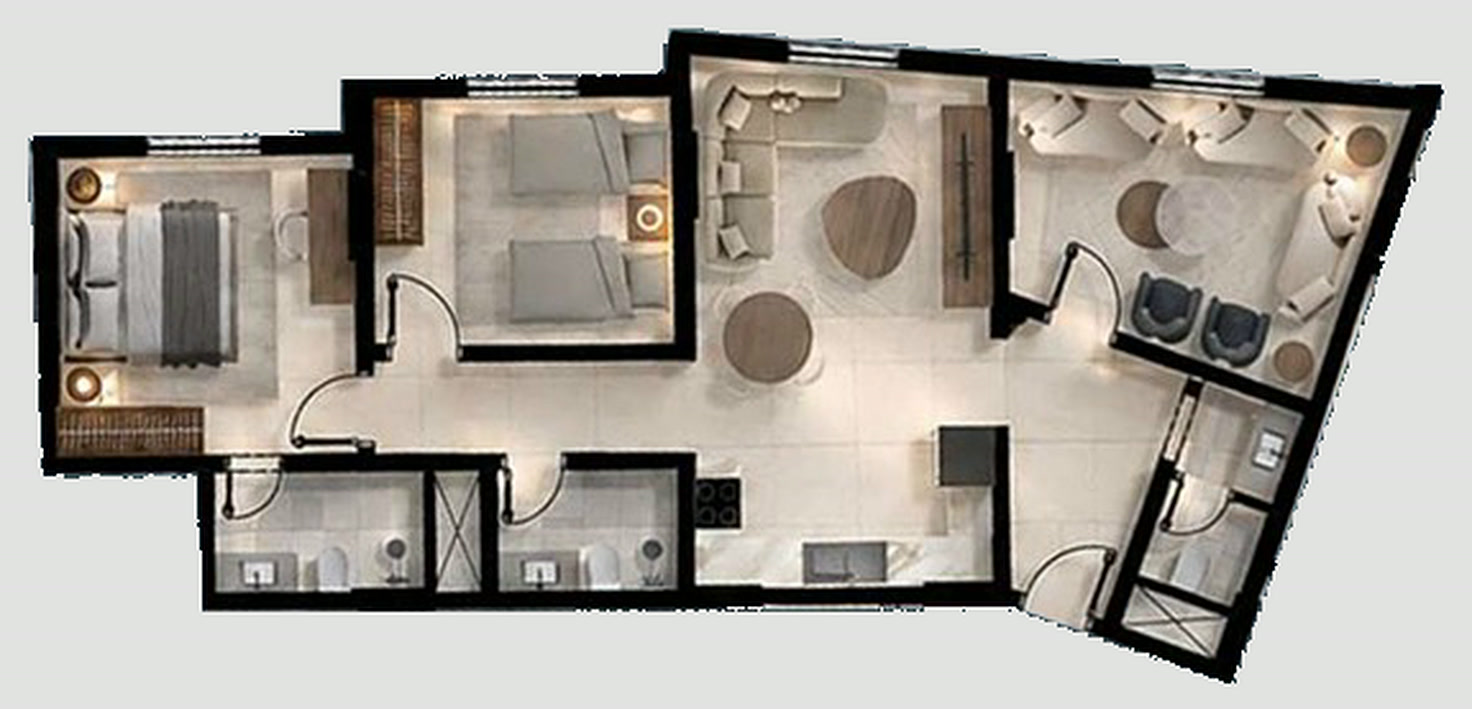
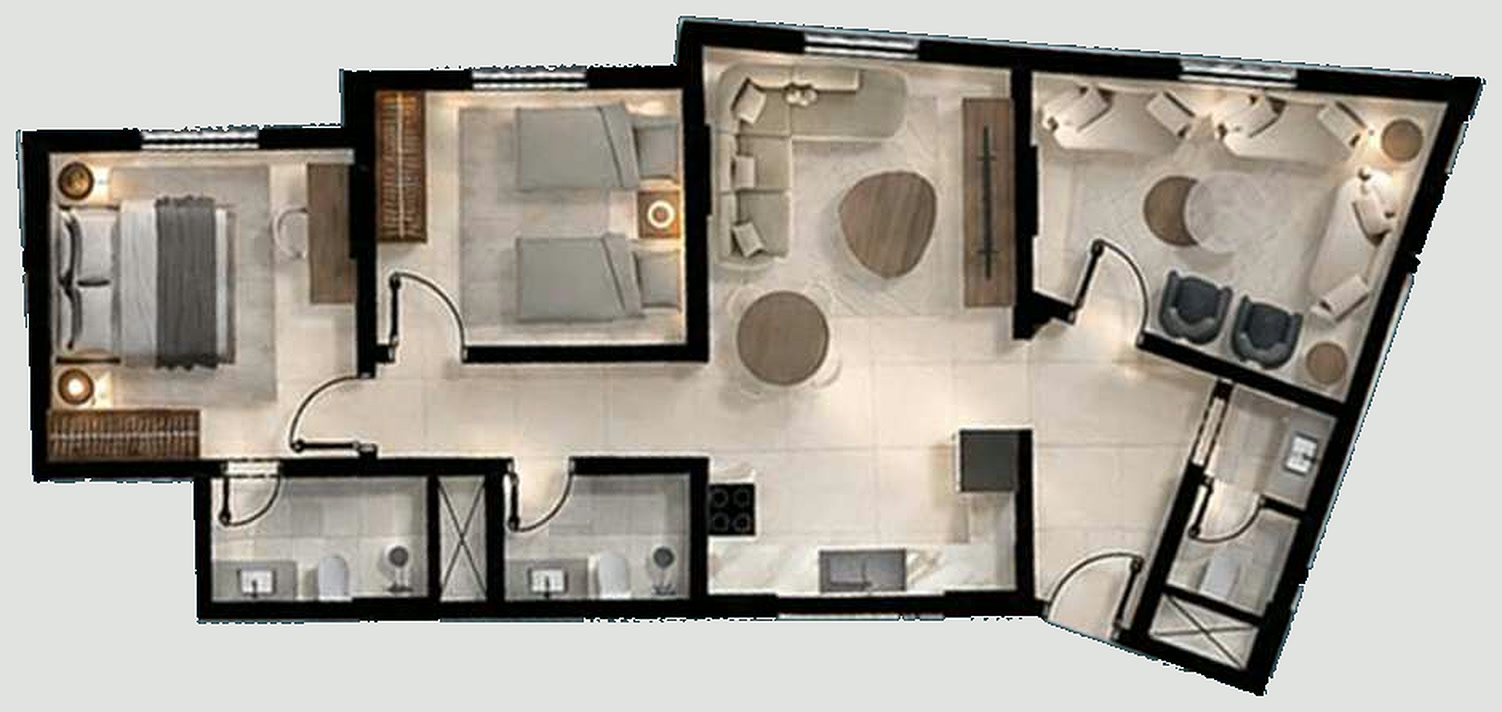
Floor plans: rebuild all four types from the approved brochure
The approved brochure (Al Fath_Residence_Approved) has new drawings and
figures for every type: A 133, B 139, C 116, D 112 sqm, each with two
bedrooms, salon, living room and three bathrooms, and no laundry room.

- Plan drawings, wall masks and footprints regenerated from the brochure
  pages; C is rebuilt again from this sharper source.
- 3D furniture re-placed to match each drawing: beds, wardrobes, sofas,
  TV units, kitchen runs and fridges, and the fixtures of all three
  bathrooms.
- Specs and room descriptions updated in English and Arabic; ar.tsv
  kept in step. B 138 -> 139 and D 118 -> 112; laundry removed.
- Files renamed to *-r2 so the 30-day asset cache cannot serve an old
  drawing under the new figures; old a/b/d files removed.
- plan3d.js: place() turned pieces backing onto an east or west wall the
  wrong way (headboards and sofa backs faced into the room). Swapped the
  two rotations; script bumped to ?v=8.
- brochure.html source updated to match; the PDFs are not regenerated.

Changed region(s): [[0.0, 0.0, 1.0, 0.9929], [0.5625, 0.3724, 0.5938, 0.4034]]

diff --git a/site/ar/index.html b/site/ar/index.html
@@ -547,18 +547,18 @@
 // ---- floor plans ----
 var PLANS = [
   // jb = drawing bbox inside the hi-res plan JPG, fb = footprint bbox inside the 3D mask (both in pixels) — used to register the drawing onto the model
-  {id:'a', name:'النوع A', area:133, beds:2, baths:3, living:2, laundry:true, jb:[68,79,1262,675], fb:[12,12,664,323], rooms:'صالة استقبال، مجلس عائلي، مطبخ، غرفتا نوم (إحداهما بدورة مياه خاصة)، دورة مياه للضيوف، وغرفة غسيل.'},
-  {id:'b', name:'النوع B', area:138, beds:2, baths:3, living:2, laundry:true, jb:[88,99,1337,671], fb:[12,12,636,311], rooms:'صالة استقبال ومجلس متجاوران، مطبخ مفتوح، غرفتا نوم بدورتي مياه خاصتين، دورة مياه للضيوف، وغرفة غسيل.'},
-  {id:'c', name:'النوع C', file:'c-r2', area:116, beds:2, baths:3, living:2, laundry:false, jb:[26,26,1446,683], fb:[13,12,706,334], rooms:'غرفتا نوم، صالة استقبال ومجلس، مطبخ مفتوح، وثلاث دورات مياه.'},
-  {id:'d', name:'النوع D', area:118, beds:2, baths:3, living:2, laundry:true, jb:[181,112,1059,799], fb:[12,12,552,402], rooms:'صالة استقبال، مجلس، مطبخ، غرفتا نوم، ثلاث دورات مياه، وغرفة غسيل مستقلة.'}
+  {id:'a', name:'النوع A', file:'a-r2', area:133, beds:2, baths:3, living:2, laundry:false, jb:[14,14,1413,726], fb:[9,9,883,454], rooms:'صالة استقبال، مجلس، مطبخ، غرفتا نوم (إحداهما بدورة مياه خاصة)، وثلاث دورات مياه.'},
+  {id:'b', name:'النوع B', file:'b-r2', area:139, beds:2, baths:3, living:2, laundry:false, jb:[14,14,1462,669], fb:[9,9,914,418], rooms:'صالة استقبال ومجلس متجاوران، مطبخ، غرفتا نوم، وثلاث دورات مياه.'},
+  {id:'c', name:'النوع C', file:'c-r2', area:116, beds:2, baths:3, living:2, laundry:false, jb:[16,16,1486,696], fb:[10,10,929,435], rooms:'غرفتا نوم، صالة استقبال ومجلس، مطبخ مفتوح، وثلاث دورات مياه.'},
+  {id:'d', name:'النوع D', file:'d-r2', area:112, beds:2, baths:3, living:2, laundry:false, jb:[16,16,1059,854], fb:[10,10,662,534], rooms:'صالة استقبال، مجلس، مطبخ، غرفتا نوم، وثلاث دورات مياه.'}
 ];
 // Furniture per plan, detected from the plan artwork then labelled by piece:
 // [x0,y0,x1,y1, r,g,b, areaPx, kind] in plan-mask pixels. kind: bed|sofa|counter|cab|wardrobe|tub|fix|skip
 var FURN = {
-  a:[[335,23,371,39,184,182,181,552,'cab'],[502,24,515,87,161,158,156,819,'wardrobe'],[534,27,613,103,199,194,193,5065,'bed'],[439,50,489,111,176,173,171,2222,'tub'],[409,60,426,83,173,170,168,382,'fix'],[644,60,654,115,209,217,222,462,'skip'],[281,90,303,117,211,210,207,616,'fix'],[614,106,633,126,149,145,143,305,'fix'],[578,145,643,162,164,161,159,1023,'wardrobe'],[575,175,644,191,156,154,153,977,'wardrobe'],[644,210,652,263,202,212,217,425,'skip'],[404,221,423,278,141,137,136,1038,'fix'],[439,228,489,312,178,177,175,3704,'tub'],[536,228,613,312,195,192,190,5568,'bed'],[33,230,90,312,168,166,164,3235,'tub'],[108,234,241,320,148,145,144,5528,'sofa'],[502,242,521,312,165,162,160,1012,'wardrobe'],[330,313,387,320,196,206,213,357,'skip']],
-  b:[[26,15,134,130,181,178,177,6843,'sofa'],[369,15,419,21,195,203,210,283,'skip'],[172,16,291,157,180,177,176,10881,'sofa'],[463,24,503,48,176,174,175,985,'fix'],[333,44,417,131,191,188,189,6782,'bed'],[540,44,621,131,206,203,203,6374,'bed'],[478,59,503,107,154,154,155,1051,'fix'],[515,170,624,215,165,163,164,3827,'tub'],[228,212,317,300,169,164,163,2481,'counter'],[86,220,131,300,151,149,151,2036,'tub'],[127,223,162,254,147,146,147,968,'fix']],
-  c:[[29,95,115,176,0,0,0,0,'bed'],[27,198,100,221,0,0,0,0,'wardrobe'],[149,83,171,147,0,0,0,0,'cab'],[182,49,206,120,0,0,0,0,'wardrobe'],[249,54,329,95,0,0,0,0,'bed'],[249,115,329,156,0,0,0,0,'bed'],[342,46,379,127,168,166,163,0,'sofa'],[379,37,432,68,168,166,163,0,'sofa'],[459,51,484,149,0,0,0,0,'cab'],[496,42,650,73,190,186,180,0,'sofa'],[630,81,669,156,190,186,180,0,'sofa'],[339,256,484,290,0,0,0,0,'counter'],[339,230,364,256,0,0,0,0,'cab'],[459,208,488,237,0,0,0,0,'wardrobe'],[105,269,144,290,0,0,0,0,'fix'],[151,264,171,290,0,0,0,0,'fix'],[247,269,281,290,0,0,0,0,'fix'],[286,264,305,290,0,0,0,0,'fix'],[613,208,628,230,0,0,0,0,'fix'],[569,264,598,288,0,0,0,0,'fix']],
-  d:[[264,16,320,22,212,217,222,349,'skip'],[248,30,355,169,170,166,163,10439,'sofa'],[30,88,73,159,174,172,171,2175,'bed'],[89,94,123,167,164,162,160,1775,'bed'],[372,129,435,179,177,176,175,3152,'tub'],[448,129,547,179,180,177,177,4072,'tub'],[24,199,143,247,174,172,173,4848,'bed'],[217,252,264,390,190,188,188,6056,'tub'],[278,252,375,399,194,193,193,11479,'counter'],[15,292,74,370,177,176,176,2922,'bed'],[492,302,513,351,150,145,142,910,'fix'],[89,306,135,377,162,159,156,2141,'bed'],[181,308,202,382,184,180,180,1545,'wardrobe'],[71,392,127,398,195,203,209,399,'skip'],[431,392,489,398,194,203,208,413,'skip']]
+  a:[[360,75,392,150,0,0,0,0,'wardrobe'],[393,20,562,60,0,0,0,0,'counter'],[528,62,562,165,0,0,0,0,'counter'],[580,62,603,95,0,0,0,0,'fix'],[625,102,650,145,0,0,0,0,'fix'],[700,25,753,135,0,0,0,0,'bed'],[778,25,833,135,0,0,0,0,'bed'],[765,190,863,222,0,0,0,0,'wardrobe'],[760,237,848,262,0,0,0,0,'cab'],[725,310,836,433,0,0,0,0,'bed'],[667,335,698,430,0,0,0,0,'wardrobe'],[630,325,653,350,0,0,0,0,'fix'],[620,380,643,425,0,0,0,0,'fix'],[532,257,562,390,0,0,0,0,'cab'],[360,268,415,435,172,168,162,0,'sofa'],[415,380,495,435,172,168,162,0,'sofa'],[118,392,310,432,172,168,162,0,'sofa'],[303,290,345,385,172,168,162,0,'sofa'],[27,325,48,350,0,0,0,0,'fix'],[52,405,75,432,0,0,0,0,'fix']],
+  b:[[155,70,198,165,172,168,162,0,'sofa'],[212,40,272,162,172,168,162,0,'sofa'],[272,25,345,65,172,168,162,0,'sofa'],[385,55,412,177,0,0,0,0,'cab'],[155,302,172,325,0,0,0,0,'fix'],[137,372,160,400,0,0,0,0,'fix'],[220,372,375,402,0,0,0,0,'counter'],[382,285,420,325,0,0,0,0,'wardrobe'],[382,325,420,400,0,0,0,0,'counter'],[427,72,522,127,0,0,0,0,'bed'],[427,150,522,204,0,0,0,0,'bed'],[425,27,504,50,0,0,0,0,'cab'],[586,27,619,122,0,0,0,0,'wardrobe'],[669,55,689,85,0,0,0,0,'fix'],[671,100,699,125,0,0,0,0,'fix'],[789,50,897,152,0,0,0,0,'bed'],[714,65,742,147,0,0,0,0,'cab'],[806,177,899,205,0,0,0,0,'wardrobe'],[796,265,819,285,0,0,0,0,'fix'],[849,252,869,285,0,0,0,0,'fix']],
+  c:[[27,122,148,230,0,0,0,0,'bed'],[30,257,125,288,0,0,0,0,'wardrobe'],[192,102,222,188,0,0,0,0,'cab'],[235,57,265,150,0,0,0,0,'wardrobe'],[322,63,427,120,0,0,0,0,'bed'],[322,145,427,198,0,0,0,0,'bed'],[150,352,172,372,0,0,0,0,'fix'],[200,345,220,372,0,0,0,0,'fix'],[242,340,257,355,0,0,0,0,'fix'],[330,352,350,372,0,0,0,0,'fix'],[372,345,392,372,0,0,0,0,'fix'],[407,340,422,355,0,0,0,0,'fix'],[447,40,490,165,172,168,162,0,'sofa'],[490,28,566,70,172,168,162,0,'sofa'],[601,60,631,192,0,0,0,0,'cab'],[442,338,636,372,0,0,0,0,'counter'],[442,300,475,338,0,0,0,0,'cab'],[599,270,640,305,0,0,0,0,'wardrobe'],[650,55,835,95,172,168,162,0,'sofa'],[815,100,868,195,172,168,162,0,'sofa'],[804,270,824,300,0,0,0,0,'fix'],[754,340,779,370,0,0,0,0,'fix']],
+  d:[[32,105,143,165,0,0,0,0,'bed'],[32,185,143,236,0,0,0,0,'bed'],[198,97,226,190,0,0,0,0,'wardrobe'],[245,40,307,170,172,168,162,0,'sofa'],[307,22,368,73,172,168,162,0,'sofa'],[408,63,440,200,0,0,0,0,'cab'],[467,160,493,180,0,0,0,0,'fix'],[513,163,533,197,0,0,0,0,'fix'],[113,264,140,284,0,0,0,0,'fix'],[37,267,67,294,0,0,0,0,'fix'],[60,397,167,515,0,0,0,0,'bed'],[199,417,227,517,0,0,0,0,'wardrobe'],[283,407,313,434,0,0,0,0,'fix'],[272,460,297,494,0,0,0,0,'fix'],[320,374,350,471,0,0,0,0,'counter'],[423,327,460,364,0,0,0,0,'wardrobe'],[423,364,460,484,0,0,0,0,'counter'],[360,484,452,517,0,0,0,0,'counter'],[466,371,520,477,172,168,162,0,'sofa']]
 };
 var SI = {
   bed:'<svg width="18" height="18" viewBox="0 0 24 24" fill="none" stroke="currentColor" stroke-width="1.5"><path d="M3 18v-6a2 2 0 0 1 2-2h14a2 2 0 0 1 2 2v6"/><path d="M3 18h18M5 10V6a1 1 0 0 1 1-1h12a1 1 0 0 1 1 1v4"/><path d="M8 10V8h3v2M13 10V8h3v2"/></svg>',
@@ -584,7 +584,7 @@ function selectPlan(id){
 }
 function build3d(){
   if (!current) return;
-  if (!window.THREE){ if (!threeLoading){ threeLoading = true; stLoad.classList.remove('off'); var s = document.createElement('script'); s.src = 'https://cdnjs.cloudflare.com/ajax/libs/three.js/0.152.2/three.min.js'; s.onload = function(){ var s2 = document.createElement('script'); s2.src = '../assets/plan3d.js?v=7'; s2.onload = build3d; document.head.appendChild(s2); }; s.onerror = function(){ stLoad.textContent = 'تعذّر عرض النموذج — يظهر المخطط'; stage.classList.add('flat'); }; document.head.appendChild(s); } return; }
+  if (!window.THREE){ if (!threeLoading){ threeLoading = true; stLoad.classList.remove('off'); var s = document.createElement('script'); s.src = 'https://cdnjs.cloudflare.com/ajax/libs/three.js/0.152.2/three.min.js'; s.onload = function(){ var s2 = document.createElement('script'); s2.src = '../assets/plan3d.js?v=8'; s2.onload = build3d; document.head.appendChild(s2); }; s.onerror = function(){ stLoad.textContent = 'تعذّر عرض النموذج — يظهر المخطط'; stage.classList.add('flat'); }; document.head.appendChild(s); } return; }
   if (!window.PlanViewer) return;
   if (!viewer){ viewer = new PlanViewer(stageView); viewer.resize(); }
   stLoad.classList.remove('off');

diff --git a/site/index.html b/site/index.html
@@ -522,18 +522,18 @@
 // ---- floor plans ----
 var PLANS = [
   // jb = drawing bbox inside the hi-res plan JPG, fb = footprint bbox inside the 3D mask (both in pixels) — used to register the drawing onto the model
-  {id:'a', name:'Type A', area:133, beds:2, baths:3, living:2, laundry:true, jb:[68,79,1262,675], fb:[12,12,664,323], rooms:'Salon, family living room, kitchen, two bedrooms (one en-suite), guest bathroom and laundry.'},
-  {id:'b', name:'Type B', area:138, beds:2, baths:3, living:2, laundry:true, jb:[88,99,1337,671], fb:[12,12,636,311], rooms:'Salon and living room side by side, an open kitchen, two bedrooms with their own bathrooms, guest WC and laundry.'},
-  {id:'c', name:'Type C', file:'c-r2', area:116, beds:2, baths:3, living:2, laundry:false, jb:[26,26,1446,683], fb:[13,12,706,334], rooms:'Two bedrooms, salon and living room, an open kitchen and three bathrooms.'},
-  {id:'d', name:'Type D', area:118, beds:2, baths:3, living:2, laundry:true, jb:[181,112,1059,799], fb:[12,12,552,402], rooms:'Salon, living room, kitchen, two bedrooms, three bathrooms and a dedicated laundry room.'}
+  {id:'a', name:'Type A', file:'a-r2', area:133, beds:2, baths:3, living:2, laundry:false, jb:[14,14,1413,726], fb:[9,9,883,454], rooms:'Salon, living room, kitchen, two bedrooms (one en-suite) and three bathrooms.'},
+  {id:'b', name:'Type B', file:'b-r2', area:139, beds:2, baths:3, living:2, laundry:false, jb:[14,14,1462,669], fb:[9,9,914,418], rooms:'Salon and living room side by side, a kitchen, two bedrooms and three bathrooms.'},
+  {id:'c', name:'Type C', file:'c-r2', area:116, beds:2, baths:3, living:2, laundry:false, jb:[16,16,1486,696], fb:[10,10,929,435], rooms:'Two bedrooms, salon and living room, an open kitchen and three bathrooms.'},
+  {id:'d', name:'Type D', file:'d-r2', area:112, beds:2, baths:3, living:2, laundry:false, jb:[16,16,1059,854], fb:[10,10,662,534], rooms:'Salon, living room, kitchen, two bedrooms and three bathrooms.'}
 ];
 // Furniture per plan, detected from the plan artwork then labelled by piece:
 // [x0,y0,x1,y1, r,g,b, areaPx, kind] in plan-mask pixels. kind: bed|sofa|counter|cab|wardrobe|tub|fix|skip
 var FURN = {
-  a:[[335,23,371,39,184,182,181,552,'cab'],[502,24,515,87,161,158,156,819,'wardrobe'],[534,27,613,103,199,194,193,5065,'bed'],[439,50,489,111,176,173,171,2222,'tub'],[409,60,426,83,173,170,168,382,'fix'],[644,60,654,115,209,217,222,462,'skip'],[281,90,303,117,211,210,207,616,'fix'],[614,106,633,126,149,145,143,305,'fix'],[578,145,643,162,164,161,159,1023,'wardrobe'],[575,175,644,191,156,154,153,977,'wardrobe'],[644,210,652,263,202,212,217,425,'skip'],[404,221,423,278,141,137,136,1038,'fix'],[439,228,489,312,178,177,175,3704,'tub'],[536,228,613,312,195,192,190,5568,'bed'],[33,230,90,312,168,166,164,3235,'tub'],[108,234,241,320,148,145,144,5528,'sofa'],[502,242,521,312,165,162,160,1012,'wardrobe'],[330,313,387,320,196,206,213,357,'skip']],
-  b:[[26,15,134,130,181,178,177,6843,'sofa'],[369,15,419,21,195,203,210,283,'skip'],[172,16,291,157,180,177,176,10881,'sofa'],[463,24,503,48,176,174,175,985,'fix'],[333,44,417,131,191,188,189,6782,'bed'],[540,44,621,131,206,203,203,6374,'bed'],[478,59,503,107,154,154,155,1051,'fix'],[515,170,624,215,165,163,164,3827,'tub'],[228,212,317,300,169,164,163,2481,'counter'],[86,220,131,300,151,149,151,2036,'tub'],[127,223,162,254,147,146,147,968,'fix']],
-  c:[[29,95,115,176,0,0,0,0,'bed'],[27,198,100,221,0,0,0,0,'wardrobe'],[149,83,171,147,0,0,0,0,'cab'],[182,49,206,120,0,0,0,0,'wardrobe'],[249,54,329,95,0,0,0,0,'bed'],[249,115,329,156,0,0,0,0,'bed'],[342,46,379,127,168,166,163,0,'sofa'],[379,37,432,68,168,166,163,0,'sofa'],[459,51,484,149,0,0,0,0,'cab'],[496,42,650,73,190,186,180,0,'sofa'],[630,81,669,156,190,186,180,0,'sofa'],[339,256,484,290,0,0,0,0,'counter'],[339,230,364,256,0,0,0,0,'cab'],[459,208,488,237,0,0,0,0,'wardrobe'],[105,269,144,290,0,0,0,0,'fix'],[151,264,171,290,0,0,0,0,'fix'],[247,269,281,290,0,0,0,0,'fix'],[286,264,305,290,0,0,0,0,'fix'],[613,208,628,230,0,0,0,0,'fix'],[569,264,598,288,0,0,0,0,'fix']],
-  d:[[264,16,320,22,212,217,222,349,'skip'],[248,30,355,169,170,166,163,10439,'sofa'],[30,88,73,159,174,172,171,2175,'bed'],[89,94,123,167,164,162,160,1775,'bed'],[372,129,435,179,177,176,175,3152,'tub'],[448,129,547,179,180,177,177,4072,'tub'],[24,199,143,247,174,172,173,4848,'bed'],[217,252,264,390,190,188,188,6056,'tub'],[278,252,375,399,194,193,193,11479,'counter'],[15,292,74,370,177,176,176,2922,'bed'],[492,302,513,351,150,145,142,910,'fix'],[89,306,135,377,162,159,156,2141,'bed'],[181,308,202,382,184,180,180,1545,'wardrobe'],[71,392,127,398,195,203,209,399,'skip'],[431,392,489,398,194,203,208,413,'skip']]
+  a:[[360,75,392,150,0,0,0,0,'wardrobe'],[393,20,562,60,0,0,0,0,'counter'],[528,62,562,165,0,0,0,0,'counter'],[580,62,603,95,0,0,0,0,'fix'],[625,102,650,145,0,0,0,0,'fix'],[700,25,753,135,0,0,0,0,'bed'],[778,25,833,135,0,0,0,0,'bed'],[765,190,863,222,0,0,0,0,'wardrobe'],[760,237,848,262,0,0,0,0,'cab'],[725,310,836,433,0,0,0,0,'bed'],[667,335,698,430,0,0,0,0,'wardrobe'],[630,325,653,350,0,0,0,0,'fix'],[620,380,643,425,0,0,0,0,'fix'],[532,257,562,390,0,0,0,0,'cab'],[360,268,415,435,172,168,162,0,'sofa'],[415,380,495,435,172,168,162,0,'sofa'],[118,392,310,432,172,168,162,0,'sofa'],[303,290,345,385,172,168,162,0,'sofa'],[27,325,48,350,0,0,0,0,'fix'],[52,405,75,432,0,0,0,0,'fix']],
+  b:[[155,70,198,165,172,168,162,0,'sofa'],[212,40,272,162,172,168,162,0,'sofa'],[272,25,345,65,172,168,162,0,'sofa'],[385,55,412,177,0,0,0,0,'cab'],[155,302,172,325,0,0,0,0,'fix'],[137,372,160,400,0,0,0,0,'fix'],[220,372,375,402,0,0,0,0,'counter'],[382,285,420,325,0,0,0,0,'wardrobe'],[382,325,420,400,0,0,0,0,'counter'],[427,72,522,127,0,0,0,0,'bed'],[427,150,522,204,0,0,0,0,'bed'],[425,27,504,50,0,0,0,0,'cab'],[586,27,619,122,0,0,0,0,'wardrobe'],[669,55,689,85,0,0,0,0,'fix'],[671,100,699,125,0,0,0,0,'fix'],[789,50,897,152,0,0,0,0,'bed'],[714,65,742,147,0,0,0,0,'cab'],[806,177,899,205,0,0,0,0,'wardrobe'],[796,265,819,285,0,0,0,0,'fix'],[849,252,869,285,0,0,0,0,'fix']],
+  c:[[27,122,148,230,0,0,0,0,'bed'],[30,257,125,288,0,0,0,0,'wardrobe'],[192,102,222,188,0,0,0,0,'cab'],[235,57,265,150,0,0,0,0,'wardrobe'],[322,63,427,120,0,0,0,0,'bed'],[322,145,427,198,0,0,0,0,'bed'],[150,352,172,372,0,0,0,0,'fix'],[200,345,220,372,0,0,0,0,'fix'],[242,340,257,355,0,0,0,0,'fix'],[330,352,350,372,0,0,0,0,'fix'],[372,345,392,372,0,0,0,0,'fix'],[407,340,422,355,0,0,0,0,'fix'],[447,40,490,165,172,168,162,0,'sofa'],[490,28,566,70,172,168,162,0,'sofa'],[601,60,631,192,0,0,0,0,'cab'],[442,338,636,372,0,0,0,0,'counter'],[442,300,475,338,0,0,0,0,'cab'],[599,270,640,305,0,0,0,0,'wardrobe'],[650,55,835,95,172,168,162,0,'sofa'],[815,100,868,195,172,168,162,0,'sofa'],[804,270,824,300,0,0,0,0,'fix'],[754,340,779,370,0,0,0,0,'fix']],
+  d:[[32,105,143,165,0,0,0,0,'bed'],[32,185,143,236,0,0,0,0,'bed'],[198,97,226,190,0,0,0,0,'wardrobe'],[245,40,307,170,172,168,162,0,'sofa'],[307,22,368,73,172,168,162,0,'sofa'],[408,63,440,200,0,0,0,0,'cab'],[467,160,493,180,0,0,0,0,'fix'],[513,163,533,197,0,0,0,0,'fix'],[113,264,140,284,0,0,0,0,'fix'],[37,267,67,294,0,0,0,0,'fix'],[60,397,167,515,0,0,0,0,'bed'],[199,417,227,517,0,0,0,0,'wardrobe'],[283,407,313,434,0,0,0,0,'fix'],[272,460,297,494,0,0,0,0,'fix'],[320,374,350,471,0,0,0,0,'counter'],[423,327,460,364,0,0,0,0,'wardrobe'],[423,364,460,484,0,0,0,0,'counter'],[360,484,452,517,0,0,0,0,'counter'],[466,371,520,477,172,168,162,0,'sofa']]
 };
 var SI = {
   bed:'<svg width="18" height="18" viewBox="0 0 24 24" fill="none" stroke="currentColor" stroke-width="1.5"><path d="M3 18v-6a2 2 0 0 1 2-2h14a2 2 0 0 1 2 2v6"/><path d="M3 18h18M5 10V6a1 1 0 0 1 1-1h12a1 1 0 0 1 1 1v4"/><path d="M8 10V8h3v2M13 10V8h3v2"/></svg>',
@@ -559,7 +559,7 @@ function selectPlan(id){
 }
 function build3d(){
   if (!current) return;
-  if (!window.THREE){ if (!threeLoading){ threeLoading = true; stLoad.classList.remove('off'); var s = document.createElement('script'); s.src = 'https://cdnjs.cloudflare.com/ajax/libs/three.js/0.152.2/three.min.js'; s.onload = function(){ var s2 = document.createElement('script'); s2.src = 'assets/plan3d.js?v=7'; s2.onload = build3d; document.head.appendChild(s2); }; s.onerror = function(){ stLoad.textContent = '3D unavailable — showing plan'; stage.classList.add('flat'); }; document.head.appendChild(s); } return; }
+  if (!window.THREE){ if (!threeLoading){ threeLoading = true; stLoad.classList.remove('off'); var s = document.createElement('script'); s.src = 'https://cdnjs.cloudflare.com/ajax/libs/three.js/0.152.2/three.min.js'; s.onload = function(){ var s2 = document.createElement('script'); s2.src = 'assets/plan3d.js?v=8'; s2.onload = build3d; document.head.appendChild(s2); }; s.onerror = function(){ stLoad.textContent = '3D unavailable — showing plan'; stage.classList.add('flat'); }; document.head.appendChild(s); } return; }
   if (!window.PlanViewer) return;
   if (!viewer){ viewer = new PlanViewer(stageView); viewer.resize(); }
   stLoad.classList.remove('off');

diff --git a/brochure/brochure.html b/brochure/brochure.html
@@ -94,10 +94,10 @@
 <section class="page pad" style="background:#EFE7DA">
   <div style="display:flex;justify-content:space-between;align-items:flex-end;margin-bottom:6mm"><div><div class="eyebrow">Floor Plans</div><h2 style="margin-bottom:0">Four ways to call it home.</h2></div><div style="font-size:9pt;color:#6B6157;font-weight:300;max-width:80mm;text-align:right">Every residence has two bedrooms, a salon and a family living room. Explore each type as an interactive 3D model at alfathresidence.com</div></div>
   <div class="plans" style="height:138mm">
-    <div class="plan"><img src="../site/assets/plans/a.jpg" alt=""><div><h3>Type A</h3><div class="area">133 sqm</div><ul><li>2 bedrooms</li><li>3 bathrooms</li><li>Salon + living room</li><li>Kitchen &middot; laundry</li></ul></div></div>
-    <div class="plan"><img src="../site/assets/plans/b.jpg" alt=""><div><h3>Type B</h3><div class="area">138 sqm</div><ul><li>2 bedrooms</li><li>3 bathrooms</li><li>Salon + living room</li><li>Kitchen &middot; laundry</li></ul></div></div>
+    <div class="plan"><img src="../site/assets/plans/a-r2.jpg" alt=""><div><h3>Type A</h3><div class="area">133 sqm</div><ul><li>2 bedrooms</li><li>3 bathrooms</li><li>Salon + living room</li><li>Kitchen</li></ul></div></div>
+    <div class="plan"><img src="../site/assets/plans/b-r2.jpg" alt=""><div><h3>Type B</h3><div class="area">139 sqm</div><ul><li>2 bedrooms</li><li>3 bathrooms</li><li>Salon + living room</li><li>Kitchen</li></ul></div></div>
     <div class="plan"><img src="../site/assets/plans/c-r2.jpg" alt=""><div><h3>Type C</h3><div class="area">116 sqm</div><ul><li>2 bedrooms</li><li>3 bathrooms</li><li>Salon + living room</li><li>Open kitchen</li></ul></div></div>
-    <div class="plan"><img src="../site/assets/plans/d.jpg" alt=""><div><h3>Type D</h3><div class="area">118 sqm</div><ul><li>2 bedrooms</li><li>3 bathrooms</li><li>Salon + living room</li><li>Kitchen &middot; laundry</li></ul></div></div>
+    <div class="plan"><img src="../site/assets/plans/d-r2.jpg" alt=""><div><h3>Type D</h3><div class="area">112 sqm</div><ul><li>2 bedrooms</li><li>3 bathrooms</li><li>Salon + living room</li><li>Kitchen</li></ul></div></div>
   </div>
   <div class="foot"><span>Al Fath Residence</span><span>03</span></div>
 </section>

diff --git a/site/assets/plan3d.js b/site/assets/plan3d.js
@@ -92,8 +92,8 @@
   function place(g, x, z, side){
     g.position.set(x, SLAB_H, z);
     if (side === 's') g.rotation.y = Math.PI;
-    else if (side === 'w') g.rotation.y = -Math.PI / 2;
-    else if (side === 'e') g.rotation.y = Math.PI / 2;
+    else if (side === 'w') g.rotation.y = Math.PI / 2;    // turns the -Z back toward -X (west)
+    else if (side === 'e') g.rotation.y = -Math.PI / 2;   // and toward +X (east)
     return g;
   }
   // which side of a blob has the most wall just outside it — that is the side a piece backs onto
